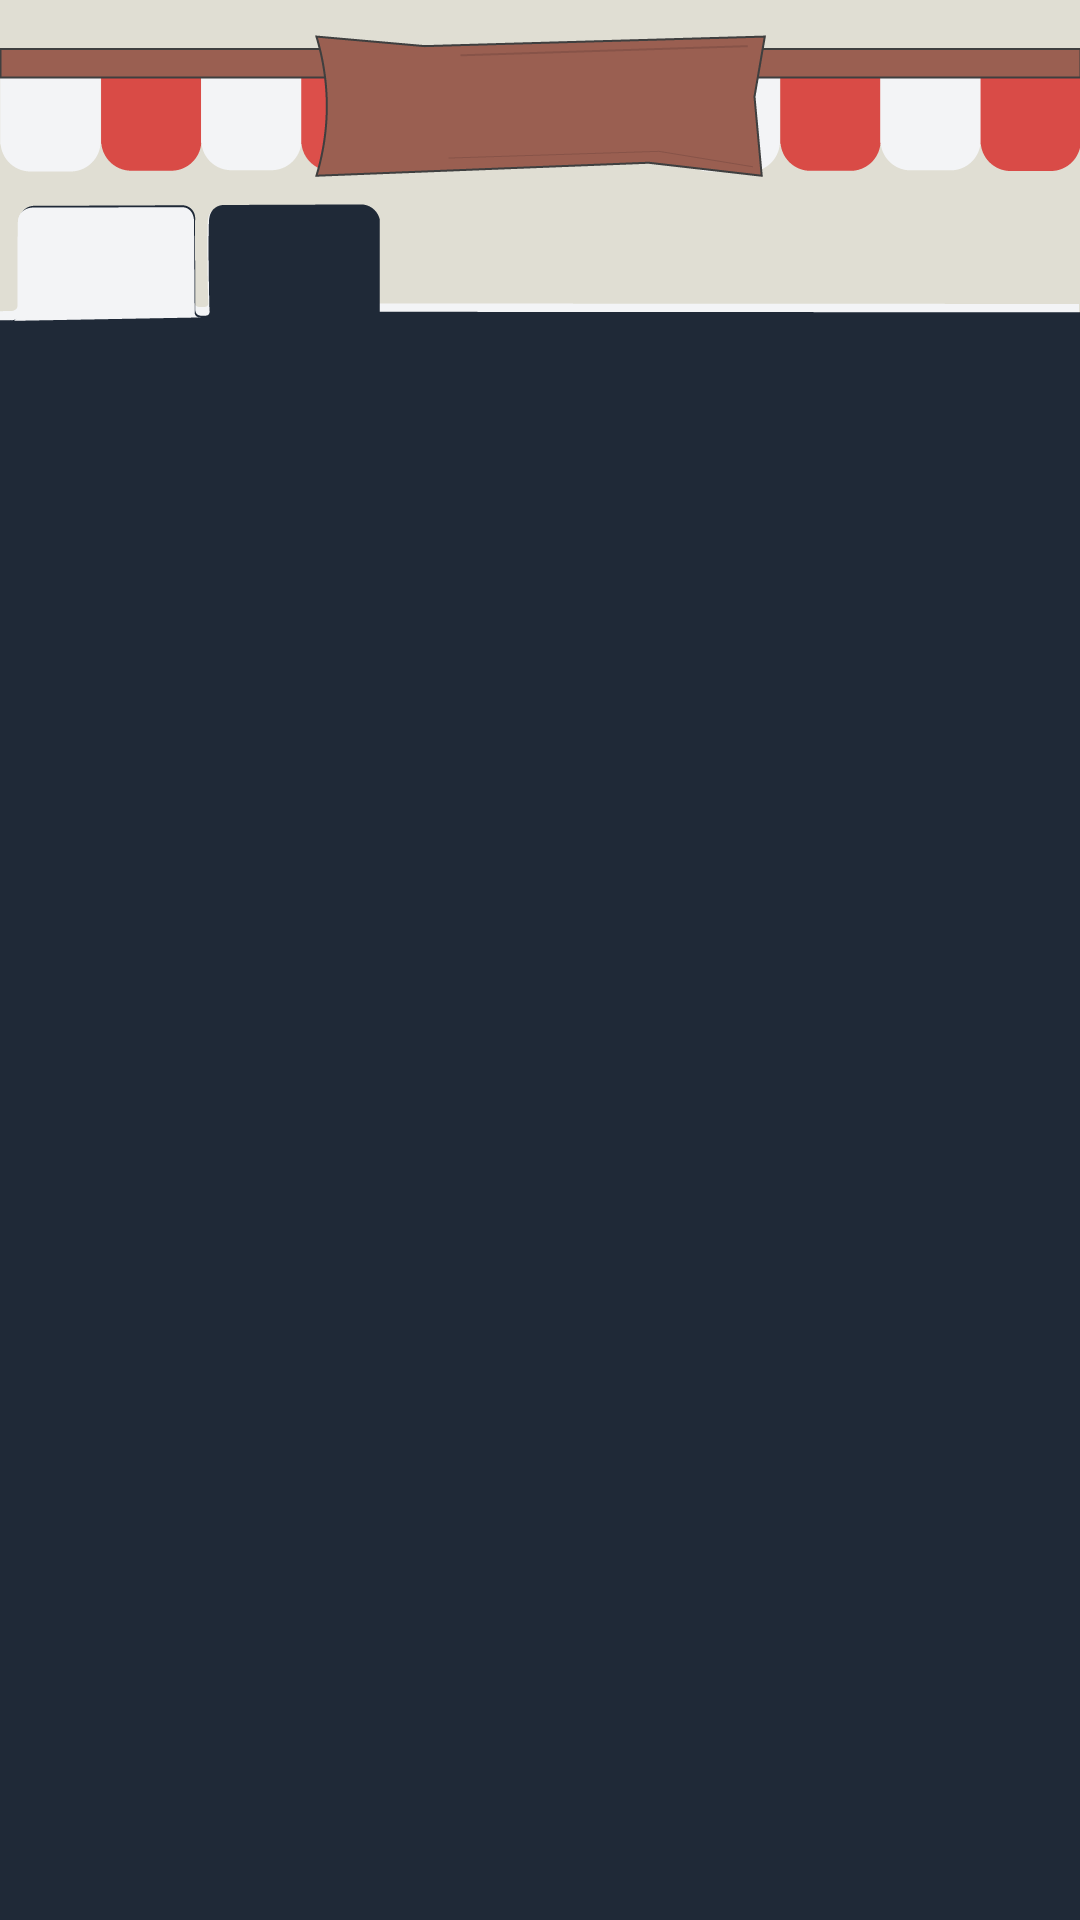
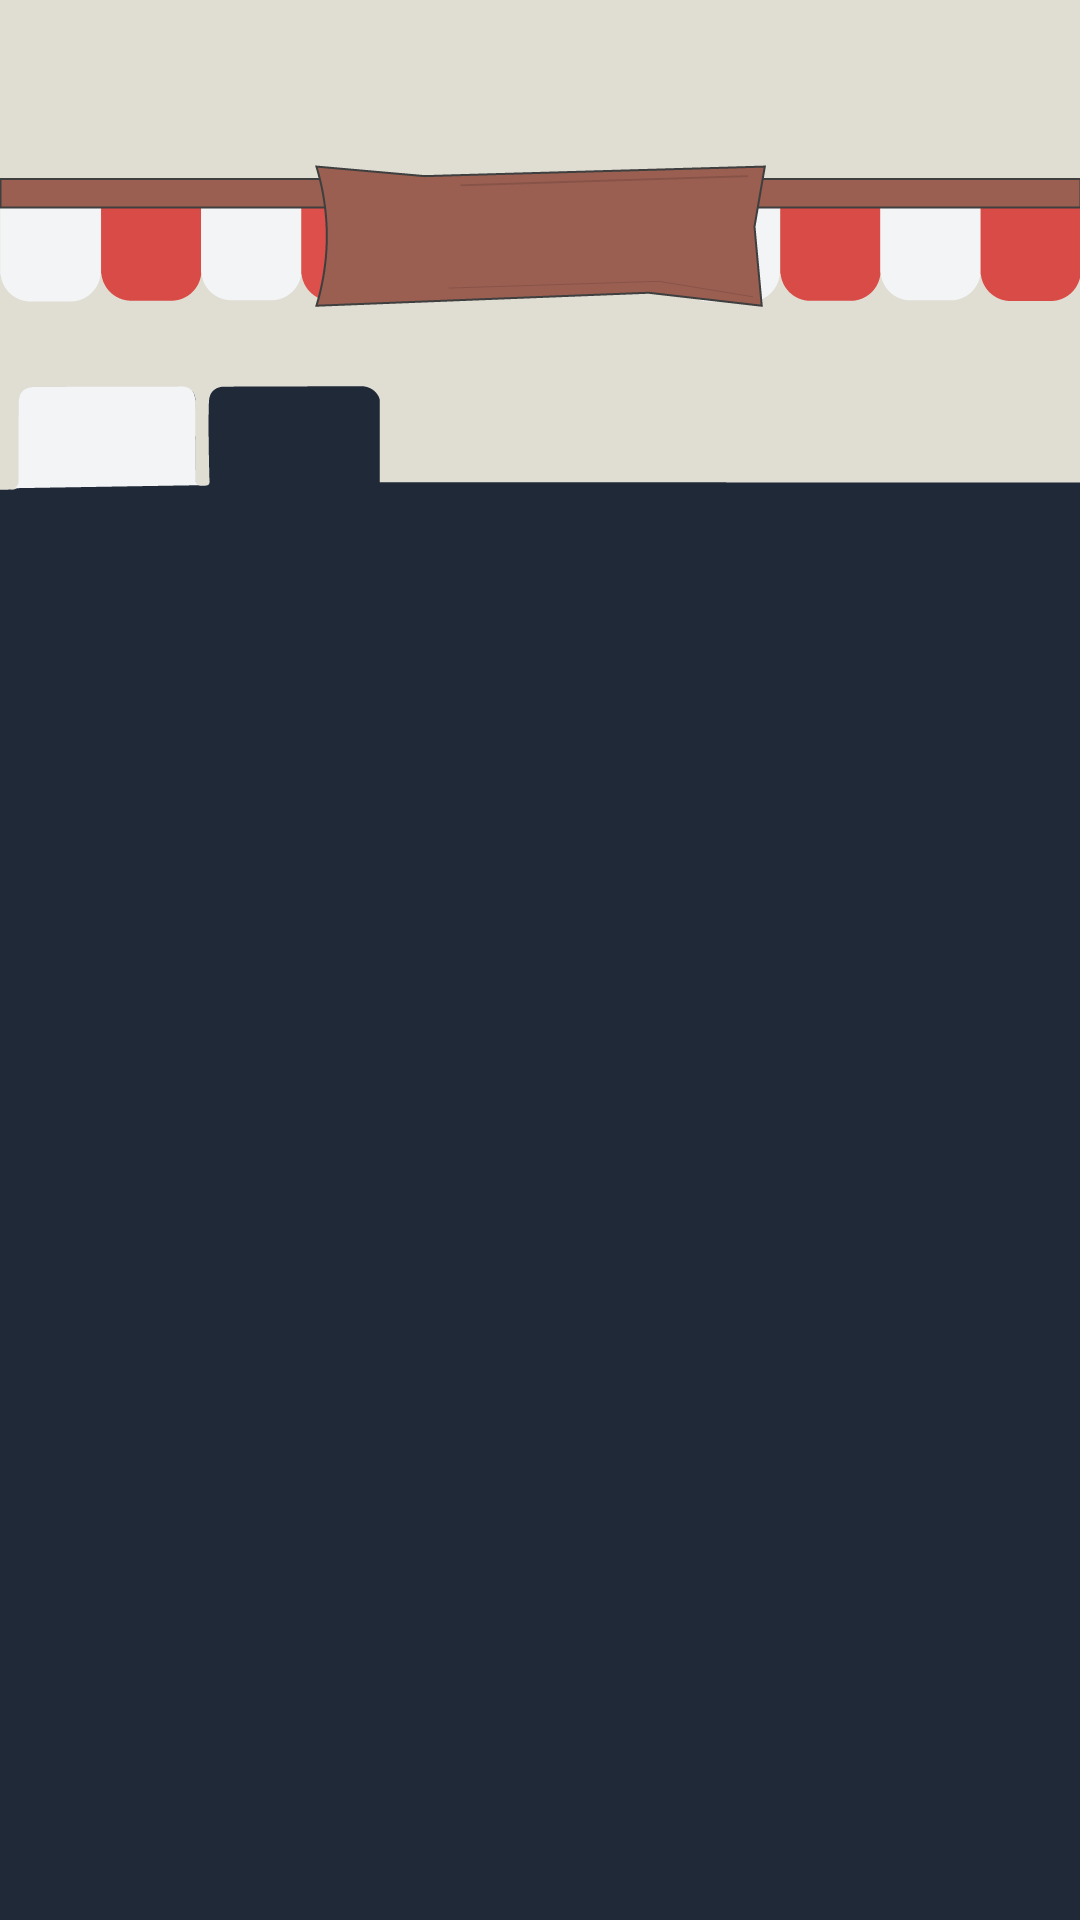
finally finished collections pages

Changed region(s): [[0.0, 0.0, 1.0, 0.2812]]

diff --git a/rockquest/app/(tabs)/players/collections.tsx b/rockquest/app/(tabs)/players/collections.tsx
@@ -12,12 +12,12 @@ import {
 import { useFonts, PressStart2P_400Regular } from "@expo-google-fonts/press-start-2p"
 import * as SplashScreen from "expo-splash-screen"
 import { useEffect, useState } from "react"
-import { Ionicons, MaterialIcons } from "@expo/vector-icons"
+import { Ionicons } from "@expo/vector-icons"
 import { useRouter } from "expo-router"
 import BottomNav from "@/components/BottomNav"
 
-import cbg_rocks from "../../assets/images/cbg_rocks.png"
-import cbg_badge from "../../assets/images/cbg_badges.png"
+import cbg_rocks from "../../../assets/images/cbg_rocks.png"
+import cbg_badge from "../../../assets/images/cbg_badges.png"
 
 SplashScreen.preventAutoHideAsync()
 
@@ -40,18 +40,9 @@ export default function CollectionsScreen() {
   }
 
   const rockCategories = [
-    {
-      title: "Igneous rocks",
-      rocks: Array(6).fill({ collected: true }),
-    },
-    {
-      title: "Sedimentary rocks",
-      rocks: Array(7).fill({ collected: true }),
-    },
-    {
-      title: "Metamorphic rocks",
-      rocks: Array(3).fill({ collected: true }),
-    },
+    { title: "Igneous rocks", rocks: Array(6).fill({ collected: true }) },
+    { title: "Sedimentary rocks", rocks: Array(7).fill({ collected: true }) },
+    { title: "Metamorphic rocks", rocks: Array(3).fill({ collected: true }) },
   ]
 
   const RockGrid = ({ rocks }: { rocks: any[] }) => (
@@ -74,47 +65,53 @@ export default function CollectionsScreen() {
     <View style={styles.container}>
       <StatusBar barStyle="dark-content" backgroundColor="transparent" translucent />
 
-      {/* Header */}
-      <View style={styles.header}>
-        <View style={styles.headerContent}>
-          <View>
-            <Text style={styles.title}>Collection</Text>
-          </View>
-          <TouchableOpacity style={styles.profileIcon} onPress={() => router.replace("/(tabs)/players/profile")}>
-            <Ionicons name="person" size={20} color="white" />
-          </TouchableOpacity>
-        </View>
+      {/* Invisible Fixed Overlay */}
+      <View style={styles.topOverlay} pointerEvents="box-none">
+        <Text style={styles.overlayTitle}>Collection</Text>
 
-        {/* Title */}
-        <Text style={styles.collectionTitle}>Collection</Text>
-
-        {/* Side-by-side Tabs */}
-        <View style={styles.fixedTabContainer}>
-          <TouchableOpacity
-            style={[styles.tabButton, activeTab === "Rocks" && styles.tabButtonActive]}
-            onPress={() => setActiveTab("Rocks")}
-          >
-            <Text style={[styles.tabText, activeTab === "Rocks" && styles.tabTextActive]}>Rocks</Text>
-          </TouchableOpacity>
-          <TouchableOpacity
-            style={[styles.tabButton, activeTab === "Badges" && styles.tabButtonActive]}
-            onPress={() => setActiveTab("Badges")}
-          >
-            <Text style={[styles.tabText, activeTab === "Badges" && styles.tabTextActive]}>Badges</Text>
-          </TouchableOpacity>
-        </View>
+        {/* Profile icon fixed on right */}
+        <TouchableOpacity
+          style={styles.profileIcon}
+          onPress={() => router.replace("/(tabs)/players/profile")}
+        >
+          <Ionicons name="person" size={20} color="white" />
+        </TouchableOpacity>
       </View>
 
-      {/* Scrollable Background & Content (starts BELOW overlay) */}
+      {/* Scrollable Background & Content */}
       <View style={{ flex: 1 }}>
         <ImageBackground
           source={activeTab === "Rocks" ? cbg_rocks : cbg_badge}
           style={{ flex: 1 }}
           resizeMode="cover"
         >
+          {/* Fixed tabs on left side */}
+          <View style={styles.fixedTabContainer}>
+            {["Rocks", "Badges"].map((tab, i) => (
+              <TouchableOpacity
+                key={tab}
+                style={[
+                  styles.tabButton,
+                  activeTab === tab && styles.tabButtonActive,
+                  i === 0 && { marginRight: 10 },
+                ]}
+                onPress={() => setActiveTab(tab)}
+              >
+                <Text
+                  style={[
+                    styles.tabText,
+                    activeTab === tab && styles.tabTextActive,
+                  ]}
+                >
+                  {tab}
+                </Text>
+              </TouchableOpacity>
+            ))}
+          </View>
+
           <ScrollView
             style={styles.content}
-            contentContainerStyle={{ paddingTop: 180, paddingBottom: 100 }}
+            contentContainerStyle={{ paddingTop: 18, paddingBottom: 100 }}  // keep same visual start
             showsVerticalScrollIndicator={false}
           >
             {activeTab === "Rocks" ? (
@@ -123,12 +120,7 @@ export default function CollectionsScreen() {
                   <View key={index} style={styles.categorySection}>
                     <View style={styles.categoryHeader}>
                       <Text style={styles.categoryTitle}>{category.title}</Text>
-                      <View style={styles.categoryActions}>
-                        <Ionicons name="chevron-forward" size={16} color="#6b7280" />
-                        <View style={styles.filterIconContainer}>
-                          <MaterialIcons name="filter-list" size={20} color="#6b7280" />
-                        </View>
-                      </View>
+                      <Ionicons name="chevron-forward" size={16} color="#6b7280" />
                     </View>
                     <RockGrid rocks={category.rocks} />
                   </View>
@@ -146,26 +138,10 @@ export default function CollectionsScreen() {
       {/* Bottom Navigation */}
       <BottomNav
         items={[
-          {
-            label: "Home",
-            route: "/(tabs)/players/dashboard",
-            icon: { lib: "ion", name: "home" },
-          },
-          {
-            label: "Scan",
-            route: "/(tabs)/players/camera",
-            icon: { lib: "ion", name: "camera" },
-          },
-          {
-            label: "Collections",
-            route: "/(tabs)/players/collections",
-            icon: { lib: "mat", name: "collections" },
-          },
-          {
-            label: "Posts",
-            route: "/(tabs)/players/posts",
-            icon: { lib: "ion", name: "chatbubbles" },
-          },
+          { label: "Home", route: "/(tabs)/players/dashboard", icon: { lib: "ion", name: "home" } },
+          { label: "Scan", route: "/(tabs)/players/camera", icon: { lib: "ion", name: "camera" } },
+          { label: "Collections", route: "/(tabs)/players/collections", icon: { lib: "mat", name: "collections" } },
+          { label: "Posts", route: "/(tabs)/players/posts", icon: { lib: "ion", name: "chatbubbles" } },
         ]}
       />
     </View>
@@ -177,60 +153,72 @@ const styles = StyleSheet.create({
     flex: 1,
     backgroundColor: "transparent",
   },
+  topOverlay: {
+    position: "absolute",
+    top: 0,
+    left: 0,
+    right: 0,
+    height: 100,
+    backgroundColor: "transparent",
+    justifyContent: "center",
+    alignItems: "center",
+    paddingTop: 50,
+    zIndex: 15,
+  },
+  overlayTitle: {
+    fontSize: 18,
+    fontWeight: "600",
+    color: "#1f2937",
+    fontFamily: "PressStart2P_400Regular",
+    marginTop: 37,
+  },
   profileIcon: {
     position: "absolute",
-    top: 40,
+    top: 143,
     right: 20,
-    zIndex: 20,
     width: 40,
     height: 40,
     borderRadius: 20,
     backgroundColor: "#A77B4E",
     justifyContent: "center",
     alignItems: "center",
+    zIndex: 20,
   },
-  topOverlay: {
-    position: "absolute",
-    top: 0,
-    left: 0,
-    right: 0,
-    zIndex: 15,
-    paddingTop: 80,
-    backgroundColor: "transparent",
-    alignItems: "center",
-  },
-  collectionTitle: {
-    fontSize: 18,
-    fontWeight: "600",
-    color: "#1f2937",
-    marginBottom: 12,
-  },
+
   fixedTabContainer: {
+    position: "absolute",
+    top: 157,
+    left: 0,                 // flush with left edge
+    height: 40,              // define button bar height
     flexDirection: "row",
-    gap: 12,
-    justifyContent: "center",
     alignItems: "center",
-    backgroundColor: "transparent",
+    zIndex: 30,
   },
+
   tabButton: {
-    paddingHorizontal: 16,
-    paddingVertical: 8,
-    borderRadius: 20,
+    paddingHorizontal: 14,   // smaller buttons
+    paddingVertical: 6,
+    borderRadius: 18,
     backgroundColor: "#f3f4f6",
+    marginRight: 10,
+    marginLeft: 0,          
   },
   tabButtonActive: {
     backgroundColor: "#1f2937",
   },
   tabText: {
-    fontSize: 14,
+    fontSize: 13,
     color: "#6b7280",
     fontWeight: "500",
   },
   tabTextActive: {
     color: "white",
   },
+
   content: {
     flex: 1,
+    marginTop: 202,          // clip starts just below the 40px filter bar
+    overflow: "hidden",      // hide scrolled content above this edge
   },
   rocksContent: {
     paddingHorizontal: 20,
@@ -247,25 +235,16 @@ const styles = StyleSheet.create({
   categoryTitle: {
     fontSize: 16,
     fontWeight: "600",
-    color: "#1f2937",
-  },
-  categoryActions: {
-    flexDirection: "row",
-    alignItems: "center",
-  },
-  filterIconContainer: {
-    backgroundColor: "transparent",
-    padding: 4,
-    borderRadius: 4,
+    color: "#ffffffff",
   },
   rockGrid: {
     flexDirection: "row",
     flexWrap: "wrap",
-    gap: 8,
   },
   rockItem: {
     width: "31%",
     aspectRatio: 1,
+    marginBottom: 8,
   },
   rockImage: {
     flex: 1,
@@ -289,26 +268,14 @@ const styles = StyleSheet.create({
     color: "#6b7280",
     textAlign: "center",
   },
-  bottomNav: {
-    flexDirection: "row",
-    backgroundColor: "white",
-    borderTopWidth: 1,
-    borderTopColor: "#e5e7eb",
-    paddingTop: 8,
-    paddingBottom: 20,
-  },
-  navItem: {
-    flex: 1,
-    alignItems: "center",
-    paddingVertical: 8,
-  },
-  navText: {
-    fontSize: 12,
-    marginTop: 4,
-    color: "#6b7280",
-  },
-  navTextActive: {
-    color: "#A77B4E",
-  },
 })
+
+
+
+
+
+
+
+
+
 
